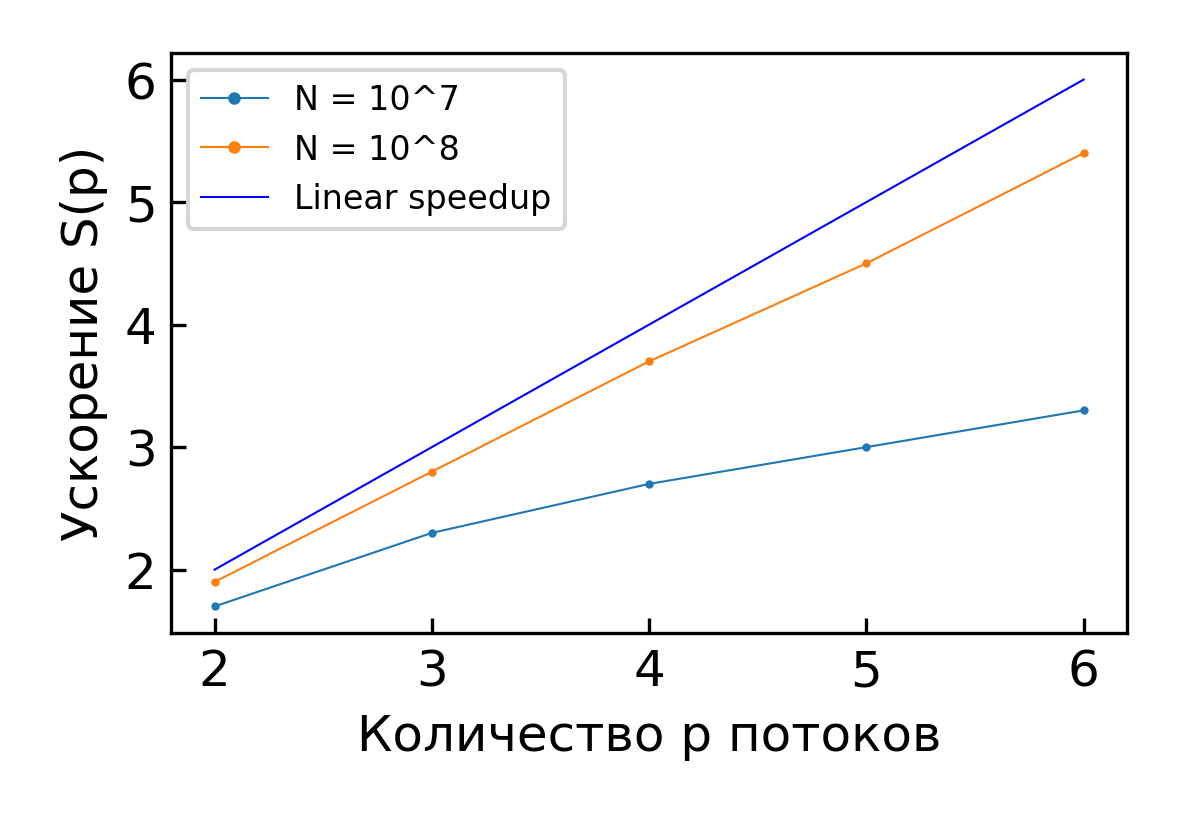
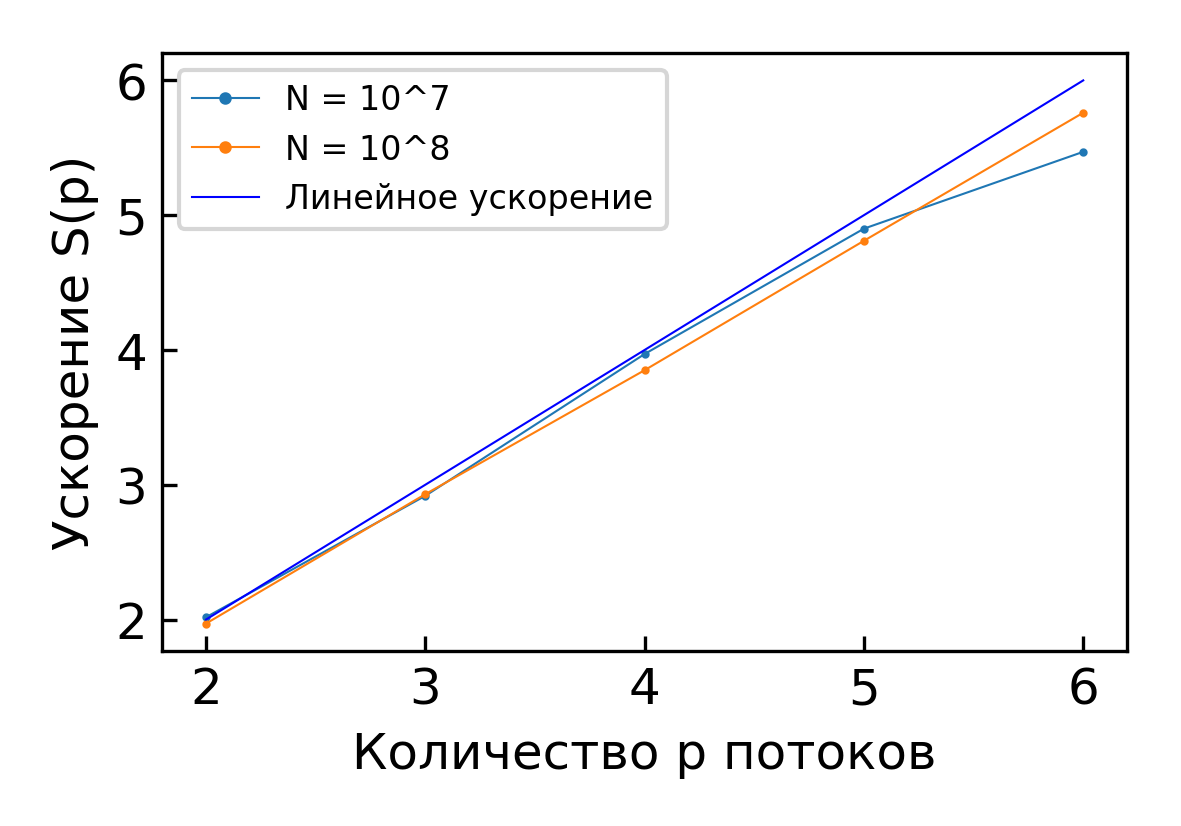
monte-carlo

diff --git a/pct-lab-3/monte-carlo/draw.py b/pct-lab-3/monte-carlo/draw.py
@@ -35,7 +35,7 @@ def draw(filenames, labels):
         #ax.plot(x,y,'-o',markersize=1,c="green")
         ax.plot(x,y,'-o',markersize=1,linewidth=0.5,label=datalabel)
         #x.bar(x, y);
-    ax.plot(range(2,7),range(2,7),'-',c="blue",linewidth=0.5,label="Linear speedup")
+    ax.plot(range(2,7),range(2,7),'-',c="blue",linewidth=0.5,label="Линейное ускорение")
 
     plt.tight_layout()
     ax.legend()

diff --git a/pct-lab-3/monte-carlo/mc.c b/pct-lab-3/monte-carlo/mc.c
@@ -22,7 +22,7 @@ int main(int argc, char** argv)
         return 1;
     int num_thds = atoi(argv[1]);
     double t = omp_get_wtime();
-    const int n = 100000000;
+    const int n = 10000000;
     printf("Numerical integration by Monte Carlo method: n = %d\n", n);
     int in = 0;
     double s = 0;
